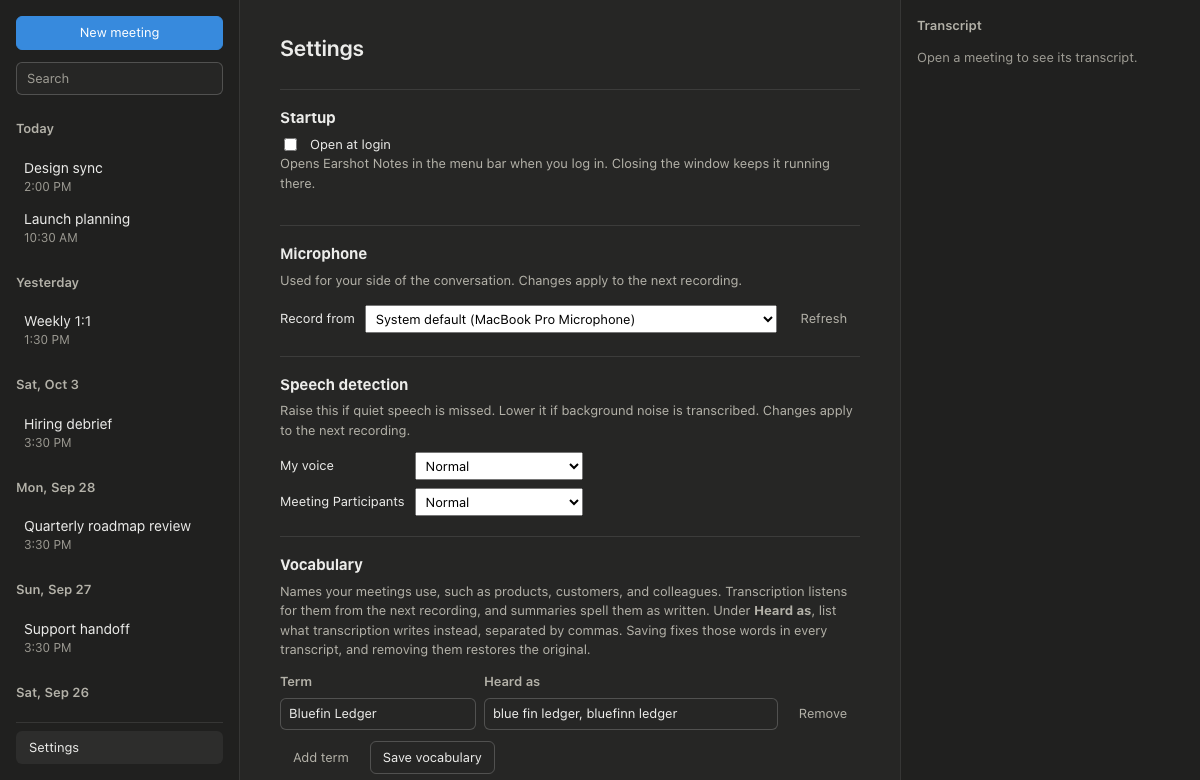
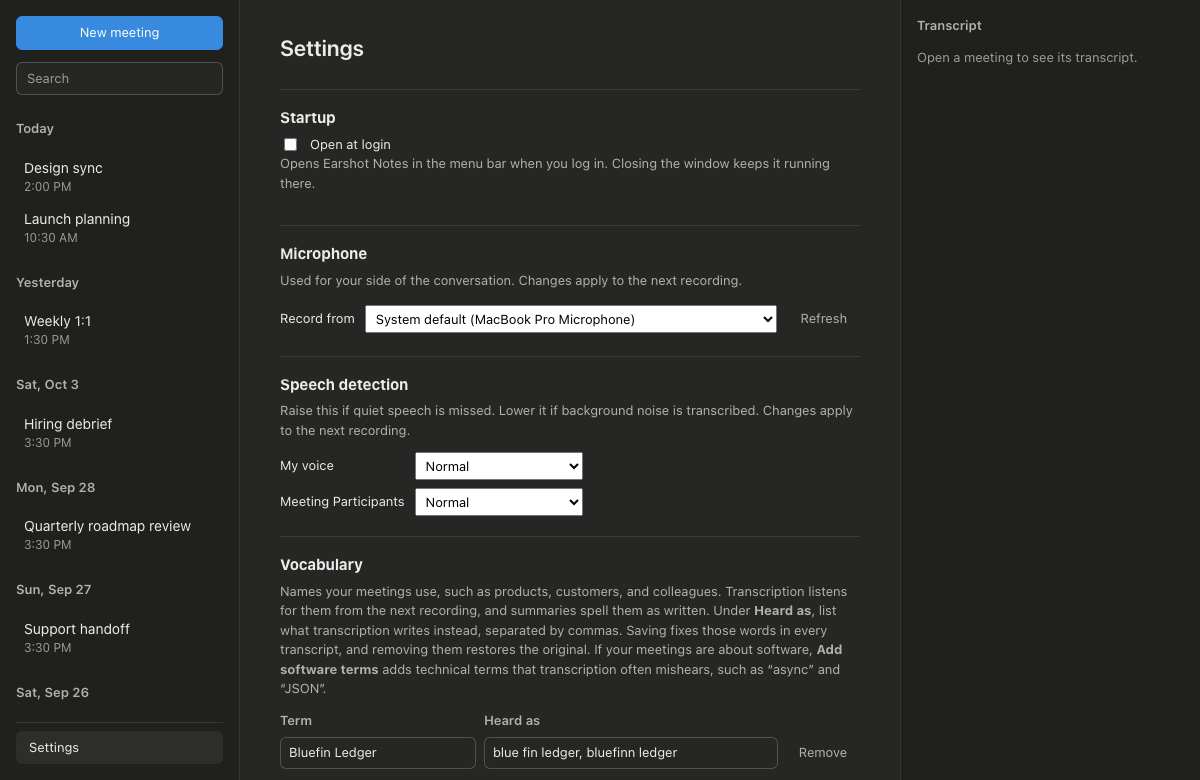
#104: Offer a software terms preset for the vocabulary (#107)
Transcription turns technical terms into everyday words, such as "async"
as "a sink". Add software terms adds 28 terms to the draft vocabulary,
skipping any already there, as ordinary terms you can edit or remove,
with no mishearings. Measured before shipping: on a real call it fixed
four technical terms on the participants' side without changing correct
words, and on non-software speech it caused no false hits. Docker and
undefined were dropped from the list because each caused a false hit or
garbled a sentence. With the terms in the summary prompt, summaries kept
as many specifics and used no term that wasn't said, so the preset terms
need no special handling.

Changed region(s): [[0.2158, 0.8308, 0.7092, 1.0], [0.6783, 0.9538, 0.7092, 0.9846], [0.6783, 0.8923, 0.7092, 0.9231]]

diff --git a/src/features/settings/SettingsView.tsx b/src/features/settings/SettingsView.tsx
@@ -19,6 +19,7 @@ import { ExportAllButton } from "../export/ExportBar";
 import { ModelOrigin } from "../summary/ModelOrigin";
 import { Markdown } from "../summary/Markdown";
 import { ModelSetup } from "../summary/ModelSetup";
+import { missingTerms, SOFTWARE_TERMS } from "./softwareTerms";
 
 export function SettingsView({ recording, onShowSetup }: { recording: boolean; onShowSetup: () => void }) {
   const [error, setError] = useState<string | null>(null);
@@ -724,6 +725,22 @@ function VocabularySection() {
     setRows((current) => current && current.filter((row) => row.key !== key));
   }
 
+  function addSoftwareTerms() {
+    if (!rows) return;
+    const added = missingTerms(
+      rows.map((row) => row.term),
+      SOFTWARE_TERMS,
+    );
+    if (added.length === 0) {
+      setStatus("Every software term is already in your vocabulary.");
+      return;
+    }
+    setRows([...rows, ...added.map((term) => ({ key: nextKey.current++, term, heardAs: "" }))]);
+    setStatus(
+      `Added ${added.length} software ${added.length === 1 ? "term" : "terms"}. Save the vocabulary to keep them.`,
+    );
+  }
+
   async function save() {
     if (!rows) return;
     setSaving(true);
@@ -754,7 +771,8 @@ function VocabularySection() {
         Names your meetings use, such as products, customers, and colleagues. Transcription listens for them from
         the next recording, and summaries spell them as written. Under <strong>Heard as</strong>, list what
         transcription writes instead, separated by commas. Saving fixes those words in every transcript, and
-        removing them restores the original.
+        removing them restores the original. If your meetings are about software, <strong>Add software terms</strong>{" "}
+        adds technical terms that transcription often mishears, such as &ldquo;async&rdquo; and &ldquo;JSON&rdquo;.
       </p>
       {rows === null && !error && <p className="empty-hint">Loading…</p>}
       {rows !== null && (
@@ -797,6 +815,9 @@ function VocabularySection() {
           <div className="vocabulary-actions">
             <button type="button" className="button subtle" onClick={add}>
               Add term
+            </button>
+            <button type="button" className="button subtle" onClick={addSoftwareTerms}>
+              Add software terms
             </button>
             <button type="button" className="button" onClick={() => void save()} disabled={saving}>
               {saving ? "Saving…" : "Save vocabulary"}

diff --git a/src/App.test.tsx b/src/App.test.tsx
@@ -1069,6 +1069,32 @@ describe("App", () => {
         expect(backend.state.vocabulary).toEqual([{ term: "Corvina", heardAs: [] }]);
       });
 
+      it("adds the software terms that are missing, for you to save", async () => {
+        const { backend, user } = await openWith((state) => {
+          state.vocabulary = [{ term: "Async", heardAs: ["a sink"] }];
+        });
+
+        await user.click(screen.getByRole("button", { name: "Add software terms" }));
+
+        expect(screen.getByRole("status")).toHaveTextContent(
+          "Added 27 software terms. Save the vocabulary to keep them.",
+        );
+        expect(screen.getByLabelText("Term 1")).toHaveValue("Async");
+        expect(screen.getByLabelText("Term 2")).toHaveValue("await");
+        expect(screen.getByLabelText("Heard as, term 2")).toHaveValue("");
+        expect(backend.state.vocabulary).toHaveLength(1);
+
+        await user.click(screen.getByRole("button", { name: "Save vocabulary" }));
+
+        expect(await screen.findByRole("status")).toHaveTextContent("Saved");
+        expect(backend.state.vocabulary).toHaveLength(28);
+        expect(backend.state.vocabulary[0]).toEqual({ term: "Async", heardAs: ["a sink"] });
+
+        await user.click(screen.getByRole("button", { name: "Add software terms" }));
+
+        expect(screen.getByRole("status")).toHaveTextContent("Every software term is already in your vocabulary.");
+      });
+
       it("explains why a vocabulary can't be saved", async () => {
         const { user } = await openWith((state) => {
           state.vocabularyError = {

diff --git a/src/features/settings/softwareTerms.ts b/src/features/settings/softwareTerms.ts
@@ -1,0 +1,48 @@
+/**
+ * Technical terms that transcription turns into everyday words, such as
+ * "async" as "a sink" or "params" as "palms", offered as a one-step addition
+ * to the vocabulary (#104). Terms only, never mishearings: a rule such as
+ * "a sink" to "async" would be wrong outside software meetings.
+ *
+ * Measured on a real call and on non-software speech before shipping.
+ * Common words that transcribe well, such as "commit" and "branch", are left
+ * out because they gain nothing and risk false hits. "Docker" turned
+ * "document" into "docker", and "undefined" garbled an unrelated sentence, so
+ * neither is listed.
+ */
+export const SOFTWARE_TERMS: readonly string[] = [
+  "async",
+  "await",
+  "nullable",
+  "null",
+  "boolean",
+  "enum",
+  "JSON",
+  "YAML",
+  "API",
+  "endpoint",
+  "payload",
+  "query params",
+  "params",
+  "webhook",
+  "OAuth",
+  "localhost",
+  "SQL",
+  "regex",
+  "schema",
+  "middleware",
+  "cron",
+  "git",
+  "GitHub",
+  "npm",
+  "TypeScript",
+  "JavaScript",
+  "Kubernetes",
+  "refactor",
+];
+
+/** The terms in `preset` not already in `existing`, ignoring case and surrounding spaces. */
+export function missingTerms(existing: readonly string[], preset: readonly string[]): string[] {
+  const have = new Set(existing.map((term) => term.trim().toLowerCase()));
+  return preset.filter((term) => !have.has(term.toLowerCase()));
+}

diff --git a/src/features/settings/softwareTerms.test.ts b/src/features/settings/softwareTerms.test.ts
@@ -1,0 +1,19 @@
+import { describe, expect, it } from "vitest";
+import { missingTerms, SOFTWARE_TERMS } from "./softwareTerms";
+
+describe("missingTerms", () => {
+  it("skips terms already there, ignoring case and spaces", () => {
+    expect(missingTerms([" Async ", "json"], ["async", "JSON", "webhook"])).toEqual(["webhook"]);
+  });
+
+  it("returns every term for an empty vocabulary", () => {
+    expect(missingTerms([], ["async", "JSON"])).toEqual(["async", "JSON"]);
+  });
+});
+
+describe("SOFTWARE_TERMS", () => {
+  it("lists each term once", () => {
+    const lower = SOFTWARE_TERMS.map((term) => term.toLowerCase());
+    expect(new Set(lower).size).toBe(lower.length);
+  });
+});

diff --git a/AGENTS.md b/AGENTS.md
@@ -64,7 +64,7 @@ Two more jobs keep the pins current (see **Updating pinned versions**). `.github
 - **Rust modules** under `src-tauri/src/`: `audio` (microphone and system capture, downmix, resampling), `chunker` (speech segmentation), `transcribe` (Whistle and its worker thread), `recording` (start, stop, and the capture-to-worker pipeline), `summarize` (prompting, the llama.cpp generator, and the background summarizer), `models` (known models, download, and GGUF import), `export` (Markdown rendering and file writing), `tray` (the menu bar icon and its menu), `window` (showing and hiding the main window and the Dock icon), `updates` (checking GitHub for a newer release), `vocabulary` (terms, mishearings, and correcting text with them), `store`, and `commands`. Tauri command handlers in `commands` stay thin and call into the other modules. Synchronous commands run on the main thread, so a command that touches the database, the disk, or another thread is `async` and does that work through `commands::blocking`, which moves it to the blocking thread pool. `Store` serializes access to its one connection with a mutex, and shared state such as `Store`, `Recorder`, and `Summarizer` is managed as an `Arc` so the work can take its own handle.
 - **UI and core communication:** the UI calls Tauri commands for requests, and the core pushes live updates as Tauri events. Current events: `transcript:segment`, `transcript:removed`, `recording:changed`, `recording:issue`, `summary:progress`, `summary:text`, `summary:done`, `summary:failed`, `model:download-progress`, `model:download-done`, and `model:download-failed`.
 - **Menu bar and window:** Earshot Notes runs in the menu bar (`tray.rs`). Closing the window hides it and the Dock icon instead of quitting (`window.rs`), so recordings continue. Show and hide the Dock icon only through `macos_audio::show_dock_icon` and `hide_dock_icon`, never Tauri's `set_activation_policy`: the shim hides the app first and drops the Dock icon once it's inactive, and waits a second after a show, because otherwise macOS redraws the whole menu bar and every menu bar icon jumps; **Quit** in the menu bar or the app menu exits, and `RunEvent::Exit` stops any recording first. The window starts hidden (`visible: false` in `tauri.conf.json`) and setup shows it, unless macOS opened the app at login. Start and stop every recording through `commands::recording::start` and `stop`, never `recording::start_recording` directly: they emit `recording:changed` and update the menu bar, which is how the window learns about recordings started or stopped from the menu bar. Opening at login is macOS's own setting (`SMAppService`), read each time rather than stored in `settings`, and works only for the bundled app.
-- **Audio pipeline:** capture threads must never block. They drop buffers when the pipeline falls behind. Captures send `audio::Buffer`, which carries the rate its samples were captured at, because a device's rate can change mid-recording (a Bluetooth headset drops to 16 or 24 kHz when its microphone opens). System audio follows the default output device: `audio/system.rs` watches it through `macos_audio::OutputDeviceWatcher` and rebuilds the tap on the new device, sending silence for the time between the two taps' buffers so transcript times stay in step; a failed rebuild reports a `recording:issue`. Never assume the rate from `CaptureFormat` stays fixed: `recording::run_pipeline` flushes the old resampler with `To16k::finish` and creates a new one when the rate changes, which keeps transcript times exact. Whistle receives 16 kHz mono segments of at most 28 s from `chunker`, which ends a segment after a 2 s pause and keeps 500 ms of it: people pause mid-sentence, and Whistle transcribes whole sentences far better than pieces (#99). Lines therefore appear about 2 s after the speaker stops. System audio uses a lower absolute speech floor than the microphone (`SYSTEM_MIN_SPEECH_RMS` and `MIC_MIN_SPEECH_RMS` in `chunker.rs`), because call audio is quieter and has no microphone hiss. Those are the **Normal** floors: each source has a stored `chunker::Sensitivity` (Low, Normal, or High) that `start_recording` reads and passes to `run_pipeline` through `Pipeline::new`. Transcript times are offsets from `meetings.started_at`. When the **Keep audio recordings** setting is on, `src-tauri/src/recordings.rs` saves each source's 16 kHz stream, before `chunker`, to `<app data>/recordings/<meeting id>/<offset>-<source>.wav` from a writer thread; the pipeline only hands samples over without waiting, and audio that doesn't fit is written as silence so the file keeps its timing. These files are full conversations: never log, export, or upload them. Whistle can invent short phrases such as "Thank you." from clips with little speech, and reports no confidence, so `chunker` measures each segment's speech time and loudness margin (`chunker::Speech`) and `transcribe/phantom.rs` drops a listed phrase only when its clip was weak. The **Vocabulary** setting (`src-tauri/src/vocabulary.rs`) works at three stages: a recording passes its terms to needle's keyword biasing with every job (read at start, like speech sensitivity); `Store::insert_transcribed_segment` replaces listed mishearings, as whole words in any case, when a segment is saved; and the summary prompts list the terms to spell. A corrected segment keeps what Whistle heard in `transcript_segments.heard_text`, which is NULL for segments no correction changed. Saving the vocabulary reapplies it to every stored segment from `heard_text` in one transaction, writing only rows that change, so removing a mishearing restores the original. Save transcribed segments only through `insert_transcribed_segment` (`store/transcribed.rs`), which reads the vocabulary under the same lock and drops echo: without headphones, participants' words come back through the microphone as "Me". `transcribe/echo.rs` compares text, not audio: a "Me" segment of three or more words is an echo when at least 70% of its words appear, in order, in what participants said within two seconds. Each source closes segments on its own pauses, so either can be saved first: an echo arriving after its source isn't saved, and a participant segment removes earlier "Me" echoes, which reach the window as `transcript:removed` (`{ meetingId, ids }`). A "Me" segment that mixes your words with echo keeps your words: `echo::without_echo` drops runs of four or more words that repeat what participants said. Stripping starts from what Whistle heard (`heard_text` when set) and reapplies the vocabulary, so both columns stay consistent. An earlier segment that loses echo is sent again as `transcript:segment` under its ID, and the window replaces it.
+- **Audio pipeline:** capture threads must never block. They drop buffers when the pipeline falls behind. Captures send `audio::Buffer`, which carries the rate its samples were captured at, because a device's rate can change mid-recording (a Bluetooth headset drops to 16 or 24 kHz when its microphone opens). System audio follows the default output device: `audio/system.rs` watches it through `macos_audio::OutputDeviceWatcher` and rebuilds the tap on the new device, sending silence for the time between the two taps' buffers so transcript times stay in step; a failed rebuild reports a `recording:issue`. Never assume the rate from `CaptureFormat` stays fixed: `recording::run_pipeline` flushes the old resampler with `To16k::finish` and creates a new one when the rate changes, which keeps transcript times exact. Whistle receives 16 kHz mono segments of at most 28 s from `chunker`, which ends a segment after a 2 s pause and keeps 500 ms of it: people pause mid-sentence, and Whistle transcribes whole sentences far better than pieces (#99). Lines therefore appear about 2 s after the speaker stops. System audio uses a lower absolute speech floor than the microphone (`SYSTEM_MIN_SPEECH_RMS` and `MIC_MIN_SPEECH_RMS` in `chunker.rs`), because call audio is quieter and has no microphone hiss. Those are the **Normal** floors: each source has a stored `chunker::Sensitivity` (Low, Normal, or High) that `start_recording` reads and passes to `run_pipeline` through `Pipeline::new`. Transcript times are offsets from `meetings.started_at`. When the **Keep audio recordings** setting is on, `src-tauri/src/recordings.rs` saves each source's 16 kHz stream, before `chunker`, to `<app data>/recordings/<meeting id>/<offset>-<source>.wav` from a writer thread; the pipeline only hands samples over without waiting, and audio that doesn't fit is written as silence so the file keeps its timing. These files are full conversations: never log, export, or upload them. Whistle can invent short phrases such as "Thank you." from clips with little speech, and reports no confidence, so `chunker` measures each segment's speech time and loudness margin (`chunker::Speech`) and `transcribe/phantom.rs` drops a listed phrase only when its clip was weak. The **Vocabulary** setting (`src-tauri/src/vocabulary.rs`) works at three stages: a recording passes its terms to needle's keyword biasing with every job (read at start, like speech sensitivity); `Store::insert_transcribed_segment` replaces listed mishearings, as whole words in any case, when a segment is saved; and the summary prompts list the terms to spell. **Add software terms** adds the preset in `src/features/settings/softwareTerms.ts` to the draft list as ordinary terms, with no mishearings (#104); measure any change to that list on real and non-software speech, because one keyword can garble an unrelated sentence. A corrected segment keeps what Whistle heard in `transcript_segments.heard_text`, which is NULL for segments no correction changed. Saving the vocabulary reapplies it to every stored segment from `heard_text` in one transaction, writing only rows that change, so removing a mishearing restores the original. Save transcribed segments only through `insert_transcribed_segment` (`store/transcribed.rs`), which reads the vocabulary under the same lock and drops echo: without headphones, participants' words come back through the microphone as "Me". `transcribe/echo.rs` compares text, not audio: a "Me" segment of three or more words is an echo when at least 70% of its words appear, in order, in what participants said within two seconds. Each source closes segments on its own pauses, so either can be saved first: an echo arriving after its source isn't saved, and a participant segment removes earlier "Me" echoes, which reach the window as `transcript:removed` (`{ meetingId, ids }`). A "Me" segment that mixes your words with echo keeps your words: `echo::without_echo` drops runs of four or more words that repeat what participants said. Stripping starts from what Whistle heard (`heard_text` when set) and reapplies the vocabulary, so both columns stay consistent. An earlier segment that loses echo is sent again as `transcript:segment` under its ID, and the window replaces it.
 - **Packaging:** [`docs/building.md`](docs/building.md) has the build, signing, and notarizing steps for people; keep it in step with this paragraph. `scripts/build-macos.sh` signs with `APPLE_SIGNING_IDENTITY`, else the first Developer ID Application certificate in the keychain, else the first Apple Development certificate, else ad-hoc. With a Developer ID identity and notarization credentials (an App Store Connect API key or an Apple ID, described at the top of the script), Tauri notarizes and staples the app, and the script signs, notarizes, and staples the disk image, then fails unless Gatekeeper accepts the app, the disk image, and the app inside it. Credentials come from the environment, never from the repository. Without them, the build is signed but not notarized, and the script says so. The build uses the hardened runtime, so `src-tauri/Entitlements.plist` must keep `com.apple.security.device.audio-input`, or microphone input is silently denied. The deployment target is macOS 26 for every build, set in `src-tauri/.cargo/config.toml`; keep it equal to `minimumSystemVersion` in `tauri.conf.json`. After changing it, run `cargo clean` in `src-tauri/`: llama.cpp's build script doesn't notice the change, and a stale build fails to link with an undefined `__isPlatformVersionAtLeast`. Bundled license texts live in `src-tauri/resources/licenses/`. `third-party-notices.txt` there is generated by `scripts/generate-notices.sh` from the normal Rust dependencies for `aarch64-apple-darwin` (cargo-about, configured in `scripts/notices/about.toml`) and the production npm dependencies in `package-lock.json`; never edit it by hand. A dependency under a license missing from `accepted` in `about.toml` fails the script, so review the license before adding it there. An npm package published without a license file needs one in `scripts/notices/npm-fallback/<package>/`. `build-macos.sh` runs the script with `--check` and stops if the file is out of date.
 - **Native macOS code:** `src-tauri/crates/macos-audio` holds the Objective-C system audio tap, the microphone permission calls, and the login item (`SMAppService`) calls, compiled by its `build.rs` with `cc` under `-Wall -Wextra -Werror`. Keep its C interface in `native/audio_tap.h` and its Rust bindings in `src/lib.rs` in sync.
 - **Permissions:** the bundled app declares `NSMicrophoneUsageDescription` and `NSAudioCaptureUsageDescription` in `src-tauri/Info.plist`, and requires macOS 26, the oldest version the prebuilt needle engine supports. System audio permission is read and requested through the private TCC framework, loaded with `dlopen` so its absence degrades to "unknown" instead of a crash; keep that fallback when changing it. Under `npm run tauri dev`, macOS attributes both permissions to your terminal app instead.
